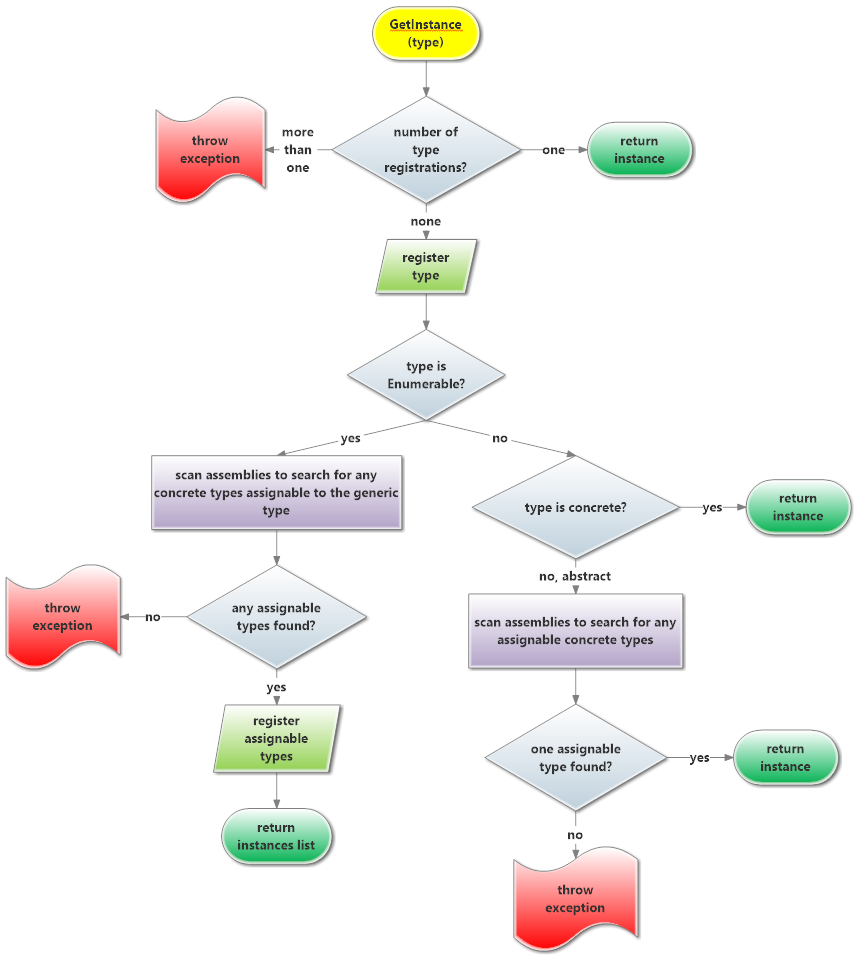
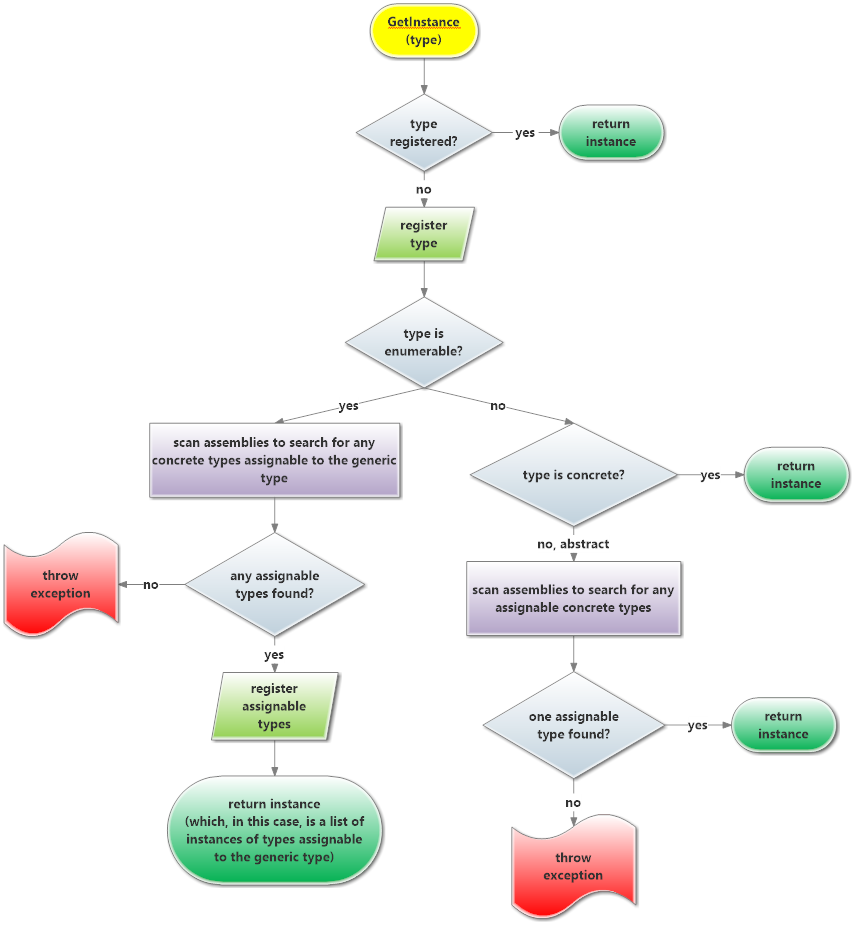
automatic registration

diff --git a/InternalContainer/InternalContainer.cs b/InternalContainer/InternalContainer.cs
@@ -48,7 +48,7 @@ namespace InternalContainer
             this.log = log;
             Log("Creating Container.");
             allConcreteTypes = new Lazy<List<TypeInfo>>(() =>
-                (assemblies ?? new[] { this.GetType().GetTypeInfo().Assembly })
+                (assemblies.Any() ? assemblies : new[] { this.GetType().GetTypeInfo().Assembly })
                 .Select(a => a.DefinedTypes.Where(t => t.IsClass && !t.IsAbstract).ToList())
                 .SelectMany(x => x).ToList());
         }
@@ -77,7 +77,11 @@ namespace InternalContainer
                 var assignables = allConcreteTypes.Value.Where(superType.IsAssignableFrom).ToList();
                 concreteType = assignables.SingleOrDefault();
                 if (concreteType == null)
-                    throw new TypeAccessException($"{assignables.Count} types found assignable to '{superType.AsString()}'.");
+                {
+                    if (assignables.Count > 1 || superType.IsAbstract) 
+                        throw new TypeAccessException($"{assignables.Count} types found assignable to '{superType.AsString()}'.");
+                    concreteType = superType; // could be generic
+                }
             }
             var reg = new Registration(superType, concreteType, lifestyle, autoRegister);
             Register(reg, () => $"Registering type: {reg}");
@@ -171,9 +175,7 @@ namespace InternalContainer
             Registration registration;
             if (!registrations.TryGetValue(superType, out registration))
             {   // auto-register
-                var lifestyle = autoLifestyle;
-                if (dependent != null)
-                    lifestyle = dependent.Lifestyle;
+                var lifestyle = dependent?.Lifestyle ?? autoLifestyle;
                 if (lifestyle == Lifestyle.AutoRegisterDisabled)
                     throw new TypeAccessException($"Cannot resolve unregistered type '{superType.AsString()}'.");
                 registration = Register(superType, null, lifestyle, true);
@@ -210,11 +212,9 @@ namespace InternalContainer
         private object CreateInstance(Registration reg)
         {
             var type = reg.ConcreteType;
-            var constructors = type.DeclaredConstructors.Where(t => !t.IsPrivate).ToList();
-            var constructor = constructors.SingleOrDefault();
+            var constructor = type.DeclaredConstructors.Where(t => !t.IsPrivate).OrderBy(t => t.GetParameters().Length).LastOrDefault();
             if (constructor == null)
-                throw new TypeAccessException(
-                    $"Type '{type.AsString()}' has {constructors.Count} constructors. Instantiation requires exactly 1 constructor, public or internal.");
+                throw new TypeAccessException($"Type '{type.AsString()}' has no public or internal constructor.");
             var parameters = constructor.GetParameters()
                 .Select(p => p.HasDefaultValue ? p.DefaultValue : GetInstance(p.ParameterType.GetTypeInfo(), reg))
                 .ToArray();
